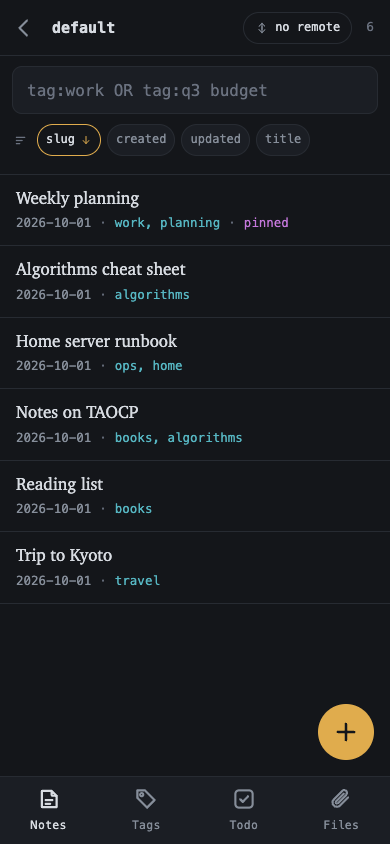
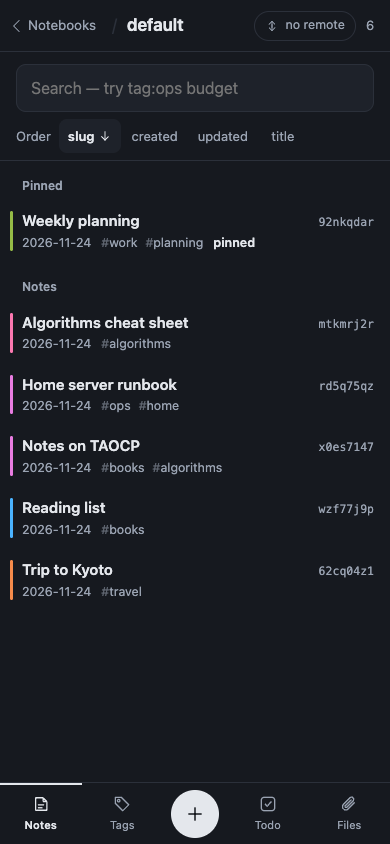
docs: regenerate the README screenshots for the redesigned web UI
The generator now waits for the listing to be on the screen instead of
trusting a fixed sleep, because on a wide screen the panes script fetches it
after the page has loaded.

diff --git a/e2e/cmd/screenshots/main.go b/e2e/cmd/screenshots/main.go
@@ -181,7 +181,14 @@ func take(server *harness.Server, scheme, output string) error {
 		if err := page.Go("/nb/" + harness.Notebook + shot.path); err != nil {
 			return err
 		}
-		// The panes and stamps are scripts that run after the page has loaded.
+		// A note's listing beside it is fetched by the panes script after the
+		// page has loaded, and the stamps are restated after that.
+		if err := harness.Eventually("the listing to be on the screen", func() (bool, error) {
+			rows, err := page.Rows()
+			return len(rows) > 0, err
+		}); err != nil {
+			return err
+		}
 		time.Sleep(400 * time.Millisecond)
 		if err := browser.Screenshot(filepath.Join(output, shot.name+suffix+".png")); err != nil {
 			return err
